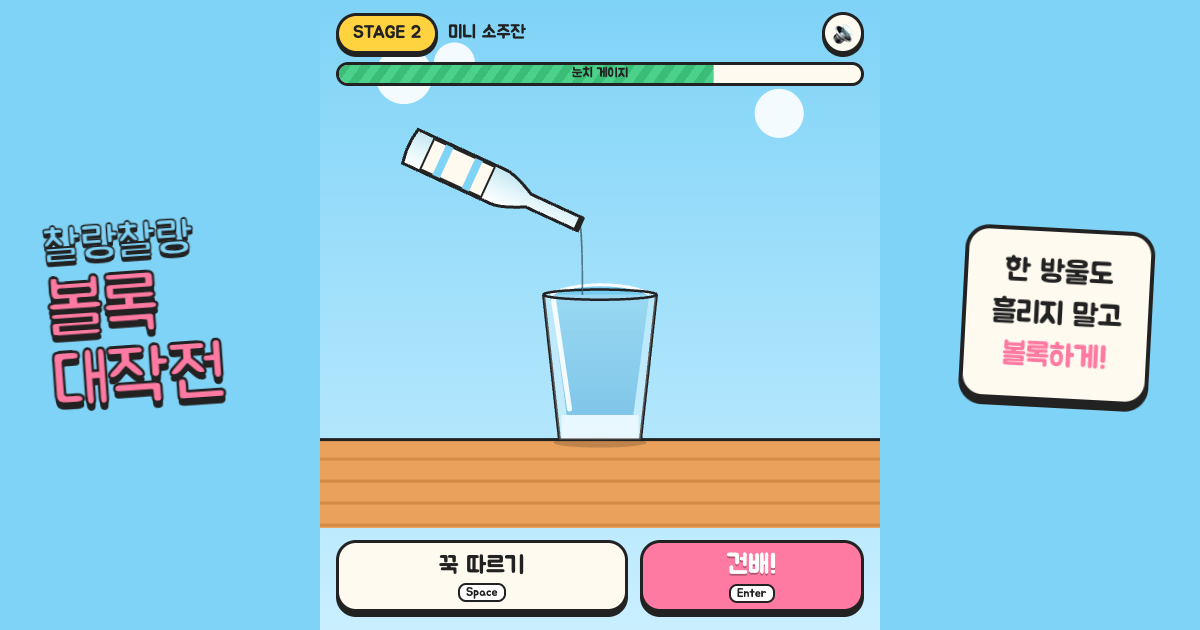
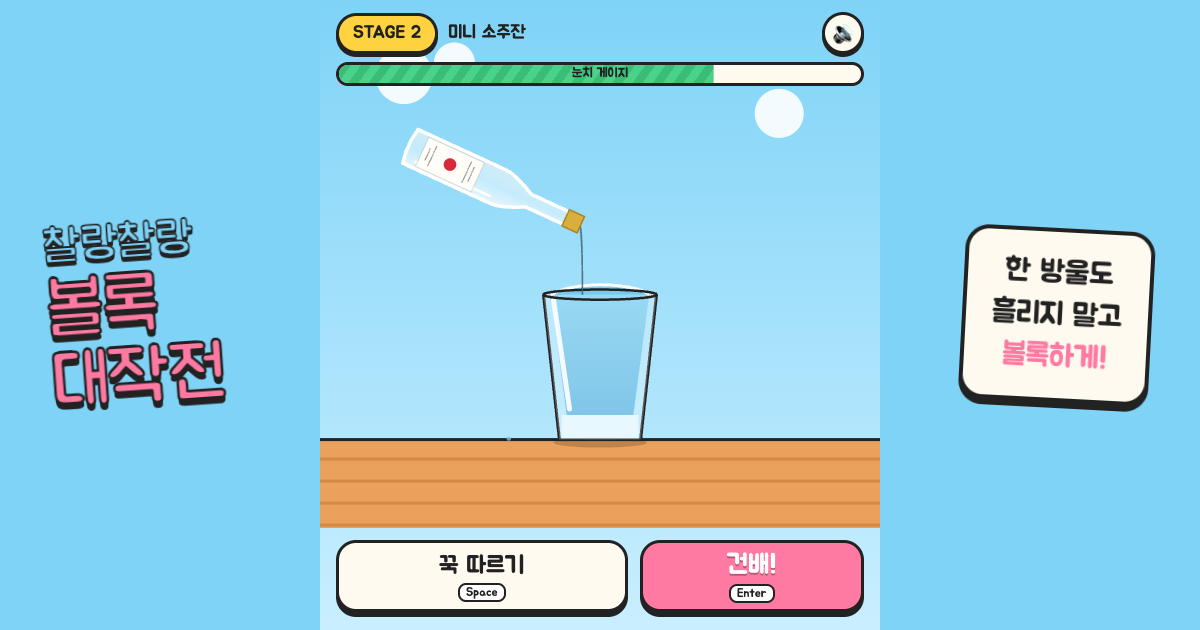
술병을 실제 소주병 실루엣으로 다시 그림
하늘색 단색 병 대신 우윳빛 반투명 유리, 흰 테두리, 금색 돌림 마개,
흰 라벨 위 회색 글줄과 빨간 원형 낙관으로 그렸다. 글자 없이 실루엣만으로
레퍼런스 병을 살짝 떠올리게 하고, 흰 라벨에 빨간 점만 있을 때 국기처럼
읽히는 것을 글줄로 피했다. og.png도 새 병으로 다시 캡처.

Changed region(s): [[0.3392, 0.2111, 0.4933, 0.3619]]

diff --git a/game.js b/game.js
@@ -1004,30 +1004,51 @@ function drawBottle(g) {
   ctx.closePath();
   const glass = ctx.createLinearGradient(0, -bodyW / 2, 0, bodyW / 2);
   if (game.golden) {
-    glass.addColorStop(0, "#fff1a8");
-    glass.addColorStop(0.5, "#ffd23f");
-    glass.addColorStop(1, "#e0a800");
+    glass.addColorStop(0, "rgba(255, 241, 168, 0.9)");
+    glass.addColorStop(1, "rgba(224, 168, 0, 0.9)");
   } else {
-    glass.addColorStop(0, "#ffffff");
-    glass.addColorStop(0.5, "#e4f6fb");
-    glass.addColorStop(1, "#c4e6f0");
+    glass.addColorStop(0, "rgba(255, 255, 255, 0.75)");
+    glass.addColorStop(0.5, "rgba(255, 255, 255, 0.45)");
+    glass.addColorStop(1, "rgba(235, 242, 245, 0.7)");
   }
   ctx.fillStyle = glass;
   ctx.fill();
-  ctx.strokeStyle = "#222";
-  ctx.lineWidth = 3;
+  ctx.strokeStyle = "#fff";
+  ctx.lineWidth = 3.5;
+  ctx.lineJoin = "round";
   ctx.stroke();
-  ctx.fillStyle = "#222";
-  ctx.fillRect(-3, -neckW / 2 - 1, 6, neckW + 2);
-  const labelX = shoulder + length * 0.12;
-  const labelW = length * 0.36;
-  ctx.fillStyle = game.golden ? "#222" : "#fffaf0";
-  ctx.fillRect(labelX, -bodyW / 2 + 2, labelW, bodyW - 4);
-  ctx.lineWidth = 2;
-  ctx.strokeRect(labelX, -bodyW / 2 + 2, labelW, bodyW - 4);
-  ctx.fillStyle = game.golden ? "#ffd23f" : "#7fd3f7";
-  ctx.fillRect(labelX + labelW * 0.2, -bodyW / 2 + 2, labelW * 0.12, bodyW - 4);
-  ctx.fillRect(labelX + labelW * 0.68, -bodyW / 2 + 2, labelW * 0.12, bodyW - 4);
+  ctx.beginPath();
+  ctx.moveTo(shoulder + length * 0.08, -bodyW * 0.32);
+  ctx.lineTo(length * 0.94, -bodyW * 0.32);
+  ctx.strokeStyle = "rgba(255, 255, 255, 0.95)";
+  ctx.lineWidth = Math.max(2, bodyW * 0.07);
+  ctx.lineCap = "round";
+  ctx.stroke();
+  ctx.fillStyle = "#d9ae3c";
+  ctx.strokeStyle = "#a9831f";
+  ctx.lineWidth = 1.5;
+  ctx.fillRect(-2, -neckW / 2 - 2, length * 0.09, neckW + 4);
+  ctx.strokeRect(-2, -neckW / 2 - 2, length * 0.09, neckW + 4);
+  const labelX = length * 0.6;
+  const labelW = length * 0.33;
+  ctx.fillStyle = "#fffdf8";
+  ctx.strokeStyle = "rgba(0, 0, 0, 0.12)";
+  ctx.lineWidth = 1;
+  ctx.fillRect(labelX, -bodyW / 2 + 2.5, labelW, bodyW - 5);
+  ctx.strokeRect(labelX, -bodyW / 2 + 2.5, labelW, bodyW - 5);
+  ctx.strokeStyle = "rgba(60, 60, 60, 0.45)";
+  ctx.lineWidth = 1.2;
+  ctx.lineCap = "butt";
+  ctx.beginPath();
+  for (const [at, span] of [[0.12, 0.22], [0.2, 0.32], [0.82, 0.3], [0.9, 0.18]]) {
+    ctx.moveTo(labelX + labelW * at, -bodyW * span);
+    ctx.lineTo(labelX + labelW * at, bodyW * span);
+  }
+  ctx.stroke();
+  ctx.beginPath();
+  ctx.arc(labelX + labelW * 0.5, 0, bodyW * 0.17, 0, Math.PI * 2);
+  ctx.fillStyle = "#d8283a";
+  ctx.fill();
   ctx.restore();
 }
 
